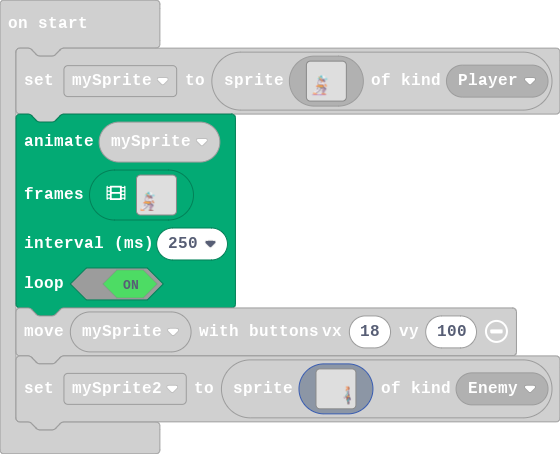
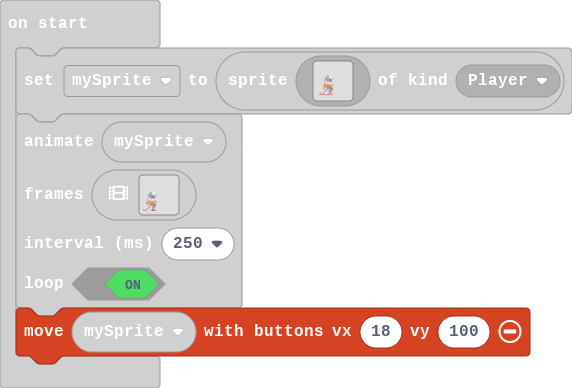
Update pxt.json, main.blocks, main.ts

diff --git a/main.ts b/main.ts
@@ -713,105 +713,3 @@ mySprite,
 true
 )
 controller.moveSprite(mySprite, 18, 100)
-let mySprite2 = sprites.create(img`
-    ....................................................................................................
-    ....................................................................................................
-    ....................................................................................................
-    ....................................................................................................
-    ....................................................................................................
-    ....................................................................................................
-    ....................................................................................................
-    ....................................................................................................
-    ....................................................................................................
-    ....................................................................................................
-    ....................................................................................................
-    ....................................................................................................
-    ....................................................................................................
-    ....................................................................................................
-    ....................................................................................................
-    ....................................................................................................
-    ....................................................................................................
-    ....................................................................................................
-    ....................................................................................................
-    ....................................................................................................
-    ....................................................................................................
-    ....................................................................................................
-    ....................................................................................................
-    ....................................................................................................
-    ....................................................................................................
-    ....................................................................................................
-    ....................................................................................................
-    ....................................................................................................
-    ....................................................................................................
-    ....................................................................................................
-    ....................................................................................................
-    ....................................................................................................
-    ....................................................................................................
-    ....................................................................................................
-    ....................................................................................................
-    ....................................................................................................
-    ....................................................................................................
-    ....................................................................................................
-    ....................................................................................................
-    ....................................................................................................
-    ....................................................................................................
-    ....................................................................................................
-    ....................................................................................................
-    ..................................................................................444444ee..........
-    .................................................................................44444444ee.........
-    .................................................................................44444444ee.........
-    ..................................................................................dddd4444ee........
-    ..................................................................................ddddd444ee........
-    ..................................................................................dddd4444ee........
-    ..................................................................................d44444e4ee........
-    ..................................................................................d44444e4ee........
-    .................................................................................444b444e4ee........
-    .................................................................................444444dee..........
-    .................................................................................4b44dddbb..........
-    .................................................................................4444ddddbb.........
-    .................................................................................444dddddbb.........
-    .................................................................................b.d66dcdbb.........
-    ...................................................................................d6d6dcbb.........
-    ...................................................................................d6d6dcbb.........
-    ...................................................................................dd6ddcbb.........
-    ...................................................................................dd6ddcbb.........
-    ...................................................................................d6d66cbb.........
-    ....................................................................................dd66cbb.........
-    ....................................................................................d6d6cbb.........
-    ....................................................................................6d66cbb.........
-    ....................................................................................d66dcbb.........
-    ...................................................................................d66ddcbb.........
-    ..................................................................................66ddddcecc........
-    .................................................................................dd666ddcecc........
-    ................................................................................66ddd664cecc........
-    ................................................................................66ddd664cecc........
-    ...............................................................................dd666dd444ecc........
-    ..............................................................................d666d66444544.........
-    ...........................................................................ddd66dddc44555544........
-    ..........................................................................ddddd6dccceeeee5544.......
-    ..........................................................................dbdddbbcceeeeeeeecc.......
-    ..........................................................................bdbddbc..eeeeeeeeccc......
-    ..........................................................................bbddb....eeeeeeeeccc......
-    ...........................................................................bbbb....eeeeeeeecccc.....
-    ............................................................................bb.....eeeeee66cccc.....
-    ...................................................................................eeeeee66cccc.....
-    ...................................................................................eeeee666ccccc....
-    ...................................................................................eeee6666bcccc....
-    ...................................................................................eeee6666bbccc....
-    ...................................................................................eee66666bb.cc....
-    ....................................................................................ee66666bb.......
-    .....................................................................................66666bb........
-    .....................................................................................66666bb........
-    .....................................................................................6666bb.........
-    .....................................................................................6666bb.........
-    ......................................................................................eeeecc........
-    ......................................................................................6ee6cb........
-    ......................................................................................ee6ebc........
-    ......................................................................................e6e6cb........
-    ......................................................................................eeeecc........
-    ......................................................................................6eeecc........
-    ......................................................................................ee6cb.........
-    ......................................................................................66dbb.........
-    .....................................................................................ddddbb.........
-    ...................................................................................ddddddbb.........
-    `, SpriteKind.Enemy)
